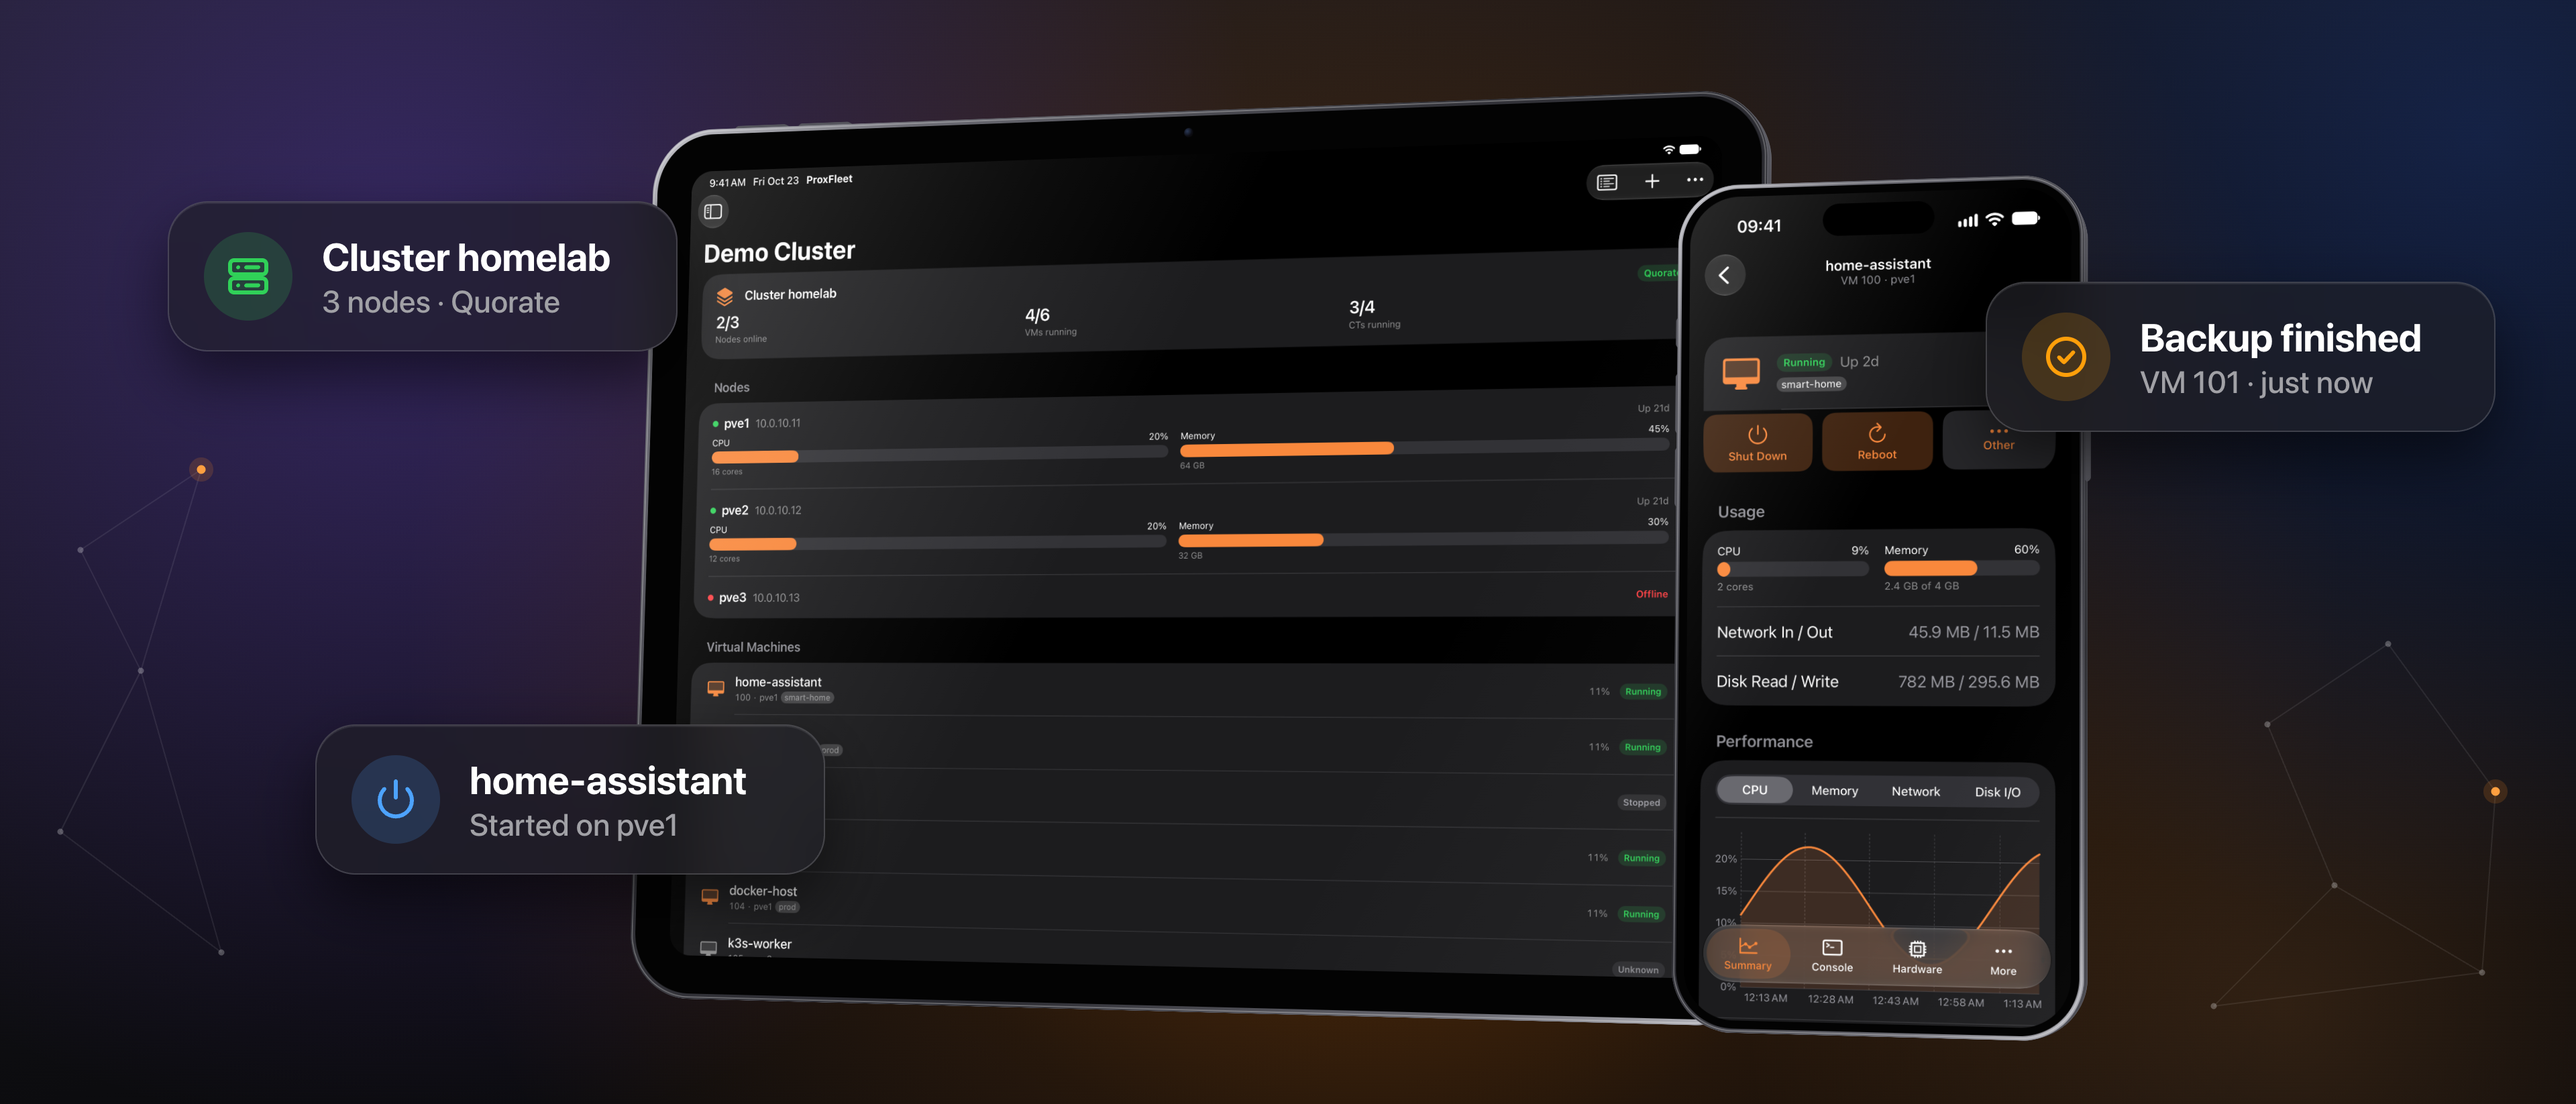
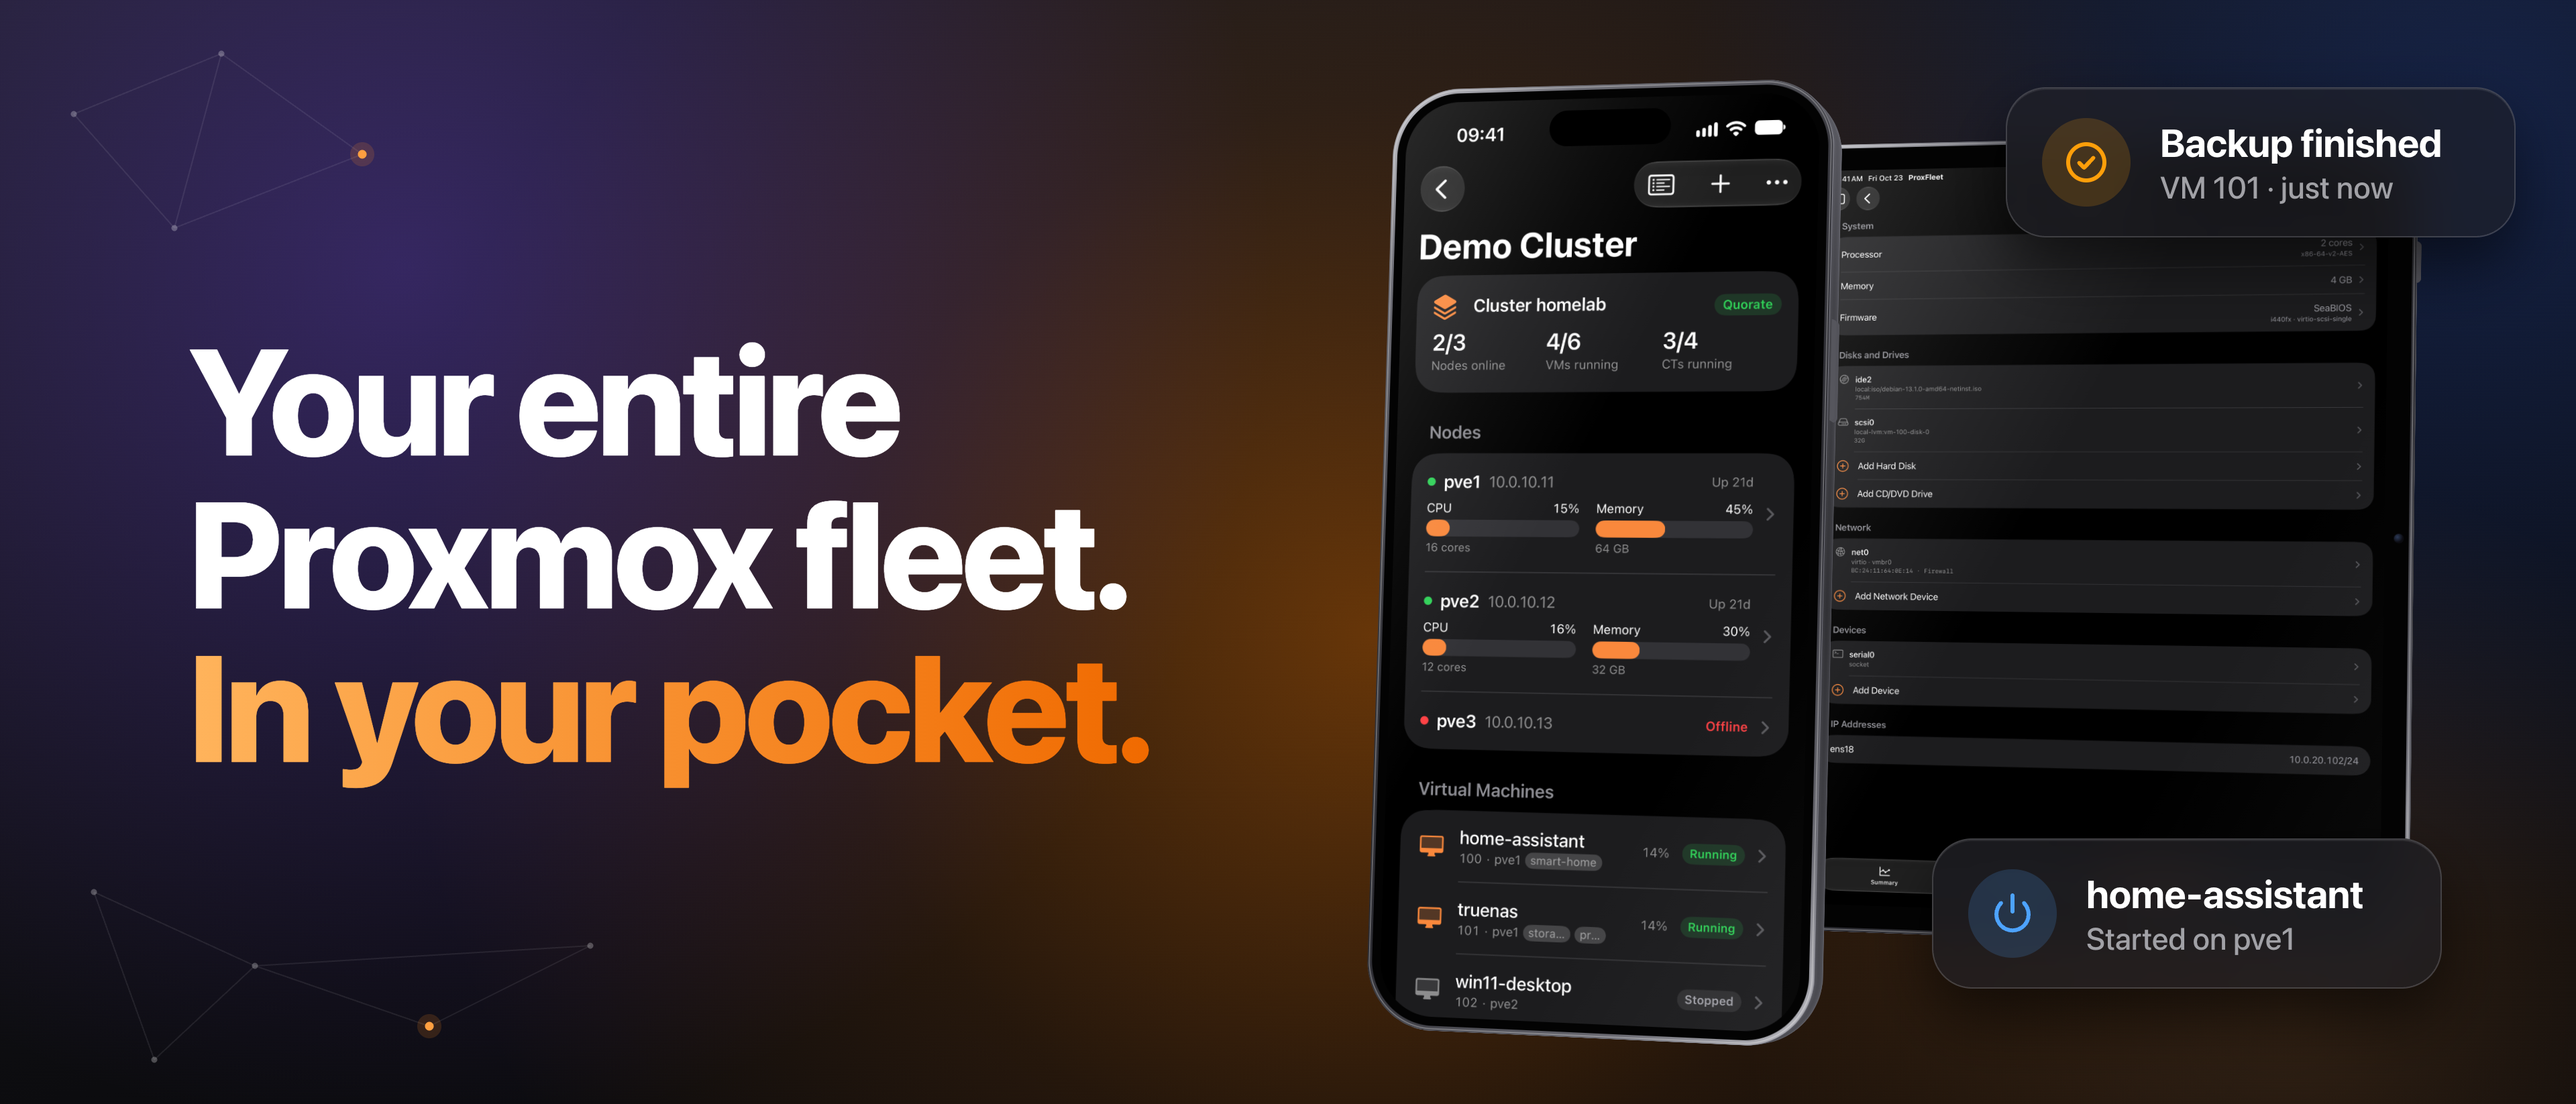
Lead the App Store header with the iPhone and the headline
The header now carries "Your entire Proxmox fleet. In your pocket." on the
left, as on the first screenshot, and makes the iPhone the main device: large
and in front, with the cluster. A smaller upright iPad with a VM's hardware
stands behind it, with the two glass cards beside them. Before, the iPad
filled the middle and looked like the main target.

diff --git a/scripts/appstore/banner.html b/scripts/appstore/banner.html
@@ -1,10 +1,10 @@
 <!doctype html>
 <!--
   The App Store's wide art, rendered by scripts/make-appstore-screenshots.sh, which passes layout:
-    header  3840 x 1646: an iPad lying on its side with the whole cluster, an iPhone in front with a VM, and glass
-            cards around them like notifications
-    search  3840 x 2560, the search result: the app icon and headline on the left, the same devices on the right.
-            It is shown small, so it has few things on it and large type.
+    header  3840 x 1646: the headline on the left; on the right a large iPhone with the whole cluster in front of an
+            iPad with a VM, and glass cards beside them like notifications
+    search  3840 x 2560, the search result: the app icon and headline on the left, an iPad lying on its side with the
+            cluster and an iPhone with a VM on the right. It is shown small, so it has few things on it and large type.
 -->
 <html>
 <head>
@@ -48,6 +48,7 @@
   .brand span { color: #fff; font-size: 150px; font-weight: 800; letter-spacing: -4px; }
   .headline { position: absolute; left: 290px; top: 920px; color: #fff; font-size: 236px; font-weight: 800;
     letter-spacing: -7px; line-height: 1.02; white-space: nowrap; }
+  :root.header .headline { left: 280px; top: 50%; transform: translateY(-50%); font-size: 224px; letter-spacing: -6.5px; }
 </style>
 </head>
 <body>
@@ -88,33 +89,34 @@
     canvas.append(card);
   };
 
-  // Both devices face the same way, the iPhone a little in front of the iPad.
-  const ipad = createDevice(stage, { kind: "ipad", screen: capture("ipad/landscape-cluster"), landscape: true,
-    screenWidth: layout === "header" ? 1620 : 1500, rim: 8, bezel: 58 });
-  const iphone = createDevice(stage, { kind: "iphone", screen: capture("iphone/2-guest"),
-    screenWidth: layout === "header" ? 560 : 600, rim: 6, bezel: 12 });
-
+  const headline = `<div class="headline">Your entire<br>Proxmox fleet.<br><span class="accent">In your pocket.</span></div>`;
+  // Both devices face the headline, the iPhone in front of the iPad.
   if (layout === "header") {
-    place(ipad, 1760, 830, "rotateX(5deg) rotateY(-16deg) rotateZ(1deg)");
-    place(iphone, 2780, 900, "translateZ(120px) rotateX(5deg) rotateY(-16deg) rotateZ(1deg)");
-    addCard(250, 300, "#30d158", "servers", "Cluster homelab", "3 nodes · Quorate");
-    addCard(470, 1080, "#4da3ff", "power", "home-assistant", "Started on pve1");
-    addCard(2960, 420, "#ff9f0a", "check", "Backup finished", "VM 101 · just now");
+    // The iPhone leads: large, with the cluster, and the upright iPad behind it smaller, with a VM's hardware.
+    const ipad = createDevice(stage, { kind: "ipad", screen: capture("ipad/3-hardware"), screenWidth: 840, rim: 6, bezel: 34 });
+    const iphone = createDevice(stage, { kind: "iphone", screen: capture("iphone/1-cluster"), screenWidth: 620, rim: 7, bezel: 13 });
+    place(ipad, 3120, 800, "rotateX(5deg) rotateY(-18deg) rotateZ(2deg)");
+    place(iphone, 2370, 830, "translateZ(160px) rotateX(5deg) rotateY(-18deg) rotateZ(2deg)");
+    addCard(2990, 130, "#ff9f0a", "check", "Backup finished", "VM 101 · just now");
+    addCard(2880, 1250, "#4da3ff", "power", "home-assistant", "Started on pve1");
+    canvas.insertAdjacentHTML("beforeend", headline);
   } else {
+    const ipad = createDevice(stage, { kind: "ipad", screen: capture("ipad/landscape-cluster"), landscape: true,
+      screenWidth: 1500, rim: 8, bezel: 58 });
+    const iphone = createDevice(stage, { kind: "iphone", screen: capture("iphone/2-guest"), screenWidth: 600, rim: 6, bezel: 12 });
     place(ipad, 2900, 1060, "rotateX(4deg) rotateY(-20deg) rotateZ(1deg)");
     place(iphone, 2400, 1560, "translateZ(140px) rotateX(4deg) rotateY(-20deg) rotateZ(1deg)");
     canvas.insertAdjacentHTML("beforeend", `
       <div class="brand"><img src="../../ProxFleet/Assets.xcassets/AppIcon.appiconset/AppIcon.png"><span>ProxFleet</span></div>
-      <div class="headline">Your entire<br>Proxmox fleet.<br><span class="accent">In your pocket.</span></div>`);
+      ${headline}`);
   }
 
-  // Faint network of nodes in the corners the devices and cards leave free.
+  // Faint network of nodes in the corners the devices, cards and headline leave free.
   const points = layout === "header"
-    ? [[120, 820], [300, 700], [210, 1000], [90, 1240], [330, 1420], [3380, 1080], [3560, 960], [3720, 1180],
-       [3480, 1320], [3700, 1450], [3300, 1500]]
+    ? [[110, 170], [330, 80], [540, 230], [260, 340], [140, 1330], [380, 1440], [230, 1580], [640, 1530], [880, 1410]]
     : [[160, 2000], [420, 1900], [300, 2200], [620, 2320], [110, 2420], [860, 2120], [2700, 120], [2920, 260],
        [3140, 110], [3380, 230], [3600, 90], [3740, 300]];
-  const lit = layout === "header" ? new Set([1, 7]) : new Set([3, 8]);
+  const lit = layout === "header" ? new Set([2, 7]) : new Set([3, 8]);
   drawNetwork(document.getElementById("network"), width, height, points, lit);
 </script>
 </body>
